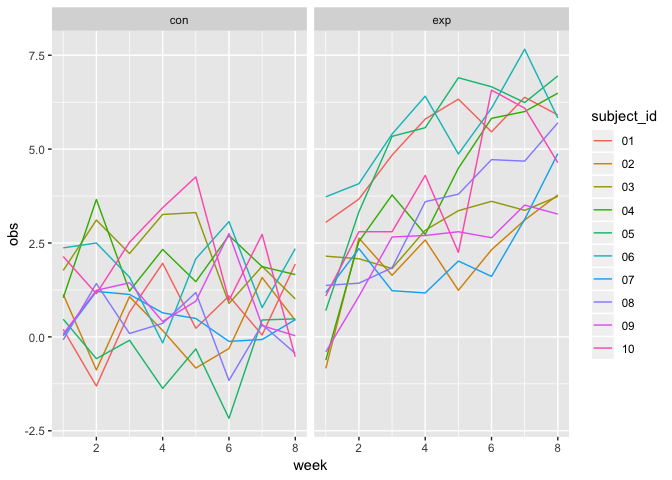
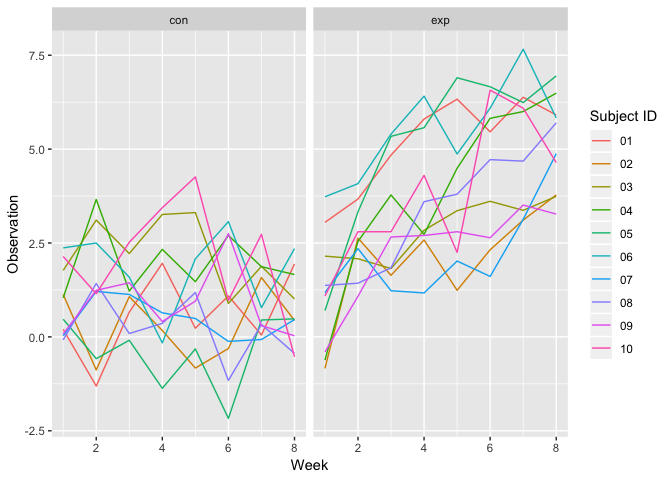
Edits and adding comments

diff --git a/p8105_hw5_gwk2111.md b/p8105_hw5_gwk2111.md
@@ -6,26 +6,39 @@ Zach Keefer
 Problem 1
 ---------
 
+Create a tidy dataframe containing data from all participants, including the subject ID, arm, and observations over time:
+
 ``` r
 study_df = 
+  ##Creating a data frame of the file names
   tibble(files = list.files(path = "./data", full.names = TRUE)) %>% 
   mutate(data = map(files, read.csv)) %>% 
   unnest() %>% 
   janitor::clean_names() %>% 
+  ##Cleaning the names of each participant
   mutate(files = str_sub(files, start = 8, end = 13)) %>% 
+  ##Separating the arms of the study and the id of each subject
   separate(files, into = c("control_arm", "subject_id"), sep = "_") %>% 
   gather(key = week, value = obs, week_1:week_8) %>% 
   mutate(week = str_sub(week, start = 6, end = 6),
          week = as.numeric(week))
 ```
 
+Make a spaghetti plot showing observations on each subject over time:
+
 ``` r
 ggplot(study_df, aes(x = week, y = obs, color = subject_id)) +
   geom_line() +
-  facet_grid(~control_arm)
+  ##Facetting the plot by controls and experiments to better visualize differences between the two groups.
+  facet_grid(~control_arm) +
+  labs(y = "Observation",
+       x = "Week",
+       color = "Subject ID")
 ```
 
 ![](p8105_hw5_gwk2111_files/figure-markdown_github/unnamed-chunk-2-1.png)
+
+There is a clear difference between the two groups over time. While the control group stays fairly level in their observation level, the experiment group increases over time.
 
 Problem 2
 ---------
@@ -34,8 +47,13 @@ Problem 2
 homicide_df = read.csv("https://raw.githubusercontent.com/washingtonpost/data-homicides/master/homicide-data.csv") %>% 
   janitor::clean_names() %>% 
   mutate(city_state = str_c(city, state, sep = ", ")) %>% 
+  #I decided to eliminate Tulsa, AL because it was a misentered data point
   filter(city_state != "Tulsa, AL")
 ```
+
+The following data set is from the Washington Post. It is data on homicides in 50 large U.S. cities. Before adding the city\_state variable and eliminating Tulsa, AL, the data set contained 52,179 obvservations and 12 variables. Each observation has a unique id, and describes the name, race, and sex of the victim, as well as the report date of the homicide, the location of the homicide and the status of the investigation. The variables of interest in the data set are `city` and `state`, which are combined above to create the `city_state` variable, and the `disposition` variable which describes the status of the investigation into a homicide.
+
+Summarize within cities to obtain the total number of homicides and the number of unsolved homicides:
 
 ``` r
 homicides = group_by(homicide_df, city_state) %>% 
@@ -98,7 +116,26 @@ homicides = group_by(homicide_df, city_state) %>%
 | Tulsa, OK          |          583|          193|
 | Washington, DC     |         1345|          589|
 
+Estimate proportion of homicides unsolved in Baltimore, pull proportions and CI's:
+
 ``` r
+balt_homicides = filter(homicides, city_state == "Baltimore, MD") 
+##This creates the R object
+balt_prop = prop.test(balt_homicides$n_unsolved, balt_homicides$n_homicide)
+##Tidying and selecting output
+broom::tidy(balt_prop) %>% 
+  select(estimate, conf.low, conf.high)
+```
+
+    ## # A tibble: 1 x 3
+    ##   estimate conf.low conf.high
+    ##      <dbl>    <dbl>     <dbl>
+    ## 1    0.646    0.628     0.663
+
+Estimate proportion of homicides for each city, create a tidy data frame with estimated proportions and CIs for each city:
+
+``` r
+##Creating a function to use below in order to run prop.test for each city in the data frame
 prop_function = function(df) {
   prop_estimate = prop.test(df$n_unsolved, df$n_homicide)
   
@@ -108,25 +145,23 @@ prop_function = function(df) {
 ```
 
 ``` r
-filter(homicides, city_state == "Baltimore, MD") %>% 
-  prop_function()
-```
-
-    ## # A tibble: 1 x 3
-    ##   estimate conf.low conf.high
-    ##      <dbl>    <dbl>     <dbl>
-    ## 1    0.646    0.628     0.663
-
-``` r
+##Running prop.test using the function created above
 us_prop_df = nest(homicides, n_homicide, n_unsolved) %>%
   mutate(us_prop = map(data, prop_function)) %>% 
   unnest()
 ```
 
+Create a plot that shows the estimates and CIs for each city:
+
 ``` r
-ggplot(us_prop_df, aes(x = city_state, y = estimate)) +
+us_prop_df %>% 
+  mutate(city_state = forcats::fct_reorder(city_state, estimate)) %>% 
+  ggplot(aes(x = city_state, y = estimate)) +
   geom_point() +
-  geom_errorbar(aes(ymin = conf.low, ymax = conf.high))
+  geom_errorbar(aes(ymin = conf.low, ymax = conf.high)) +
+  theme(axis.text.x = element_text(angle = 68, hjust = 1)) +
+  labs(x = "City",
+       y = "Proportion of Unsolved Homicides")
 ```
 
 ![](p8105_hw5_gwk2111_files/figure-markdown_github/unnamed-chunk-8-1.png)
